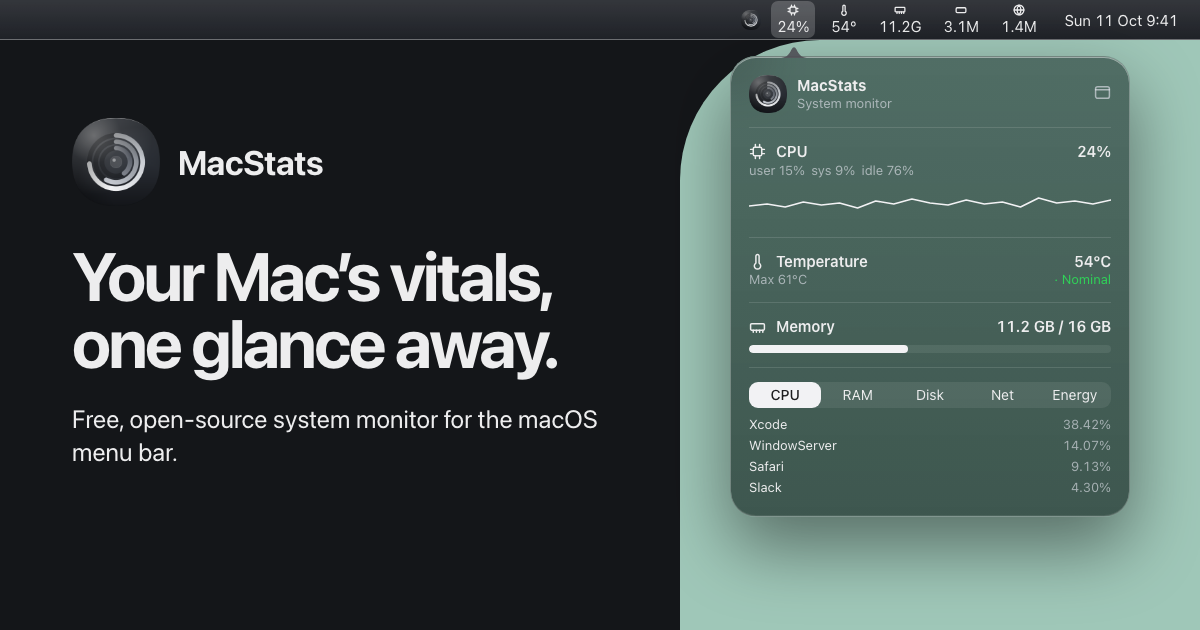
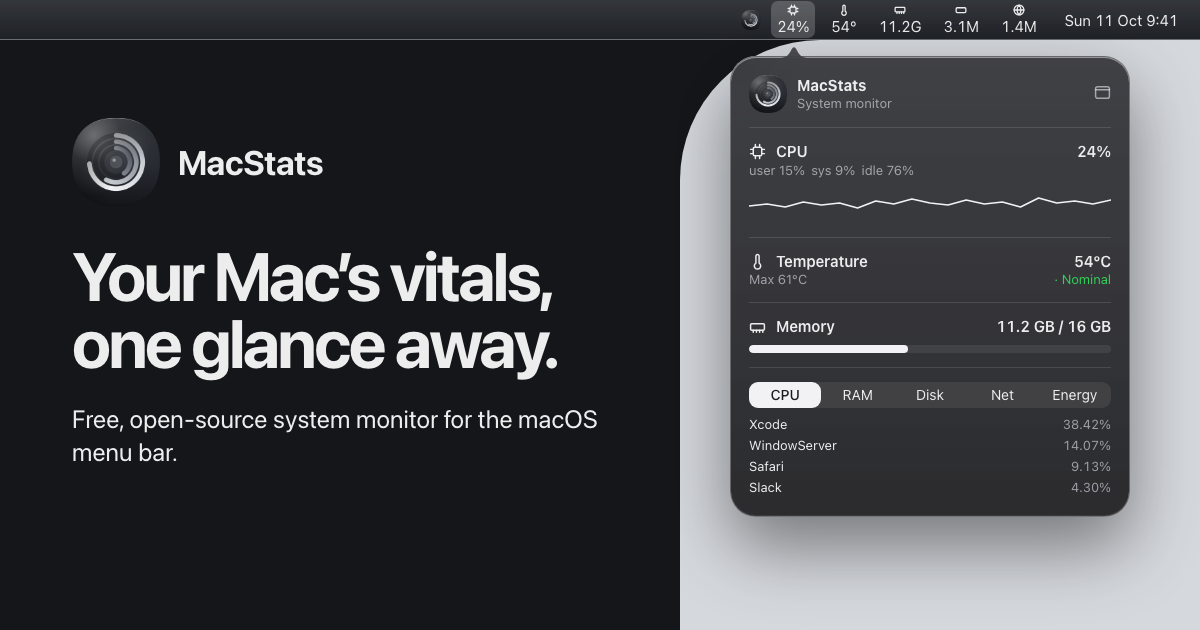
style(web): grey stage and a white button instead of jade
The jade stage becomes a light cool grey and the download button white,
the icon's own graphite and white. The dark glass of the dropdown and
windows is now mostly opaque, as it washed out to mid grey over the
light stage, and drops its backdrop blur: it showed nothing at that
opacity and made phones stutter while scrolling. The og image follows.

diff --git a/apps/web/src/index.css b/apps/web/src/index.css
@@ -4,16 +4,17 @@
   /* The SF system font stack: the page is set in the same face as the app it shows */
   --font-sans: -apple-system, BlinkMacSystemFont, "SF Pro", "Helvetica Neue", system-ui, sans-serif;
 
-  /* Page palette: graphite ground from the icon, near-white ink, one pale jade "stage" that the
-     product fragments sit on (and the download button). Nothing else on the page carries colour;
-     the app's own charts do. */
+  /* Page palette, the icon's own: graphite ground, near-white ink, a light cool grey "stage" the
+     product fragments sit on, and a white download button. Nothing else on the page carries
+     colour; the app's own charts do. */
   --color-ground: #141619;
   --color-surface: #1d2024;
   --color-ink: #ededee;
   --color-muted: #9a9fa8;
-  --color-stage: #9fc7b8;
-  --color-stage-strong: #b6d7cb;
+  --color-stage: #d5d8dd;
   --color-on-stage: #141619;
+  --color-action: #f2f2f4;
+  --color-action-strong: #ffffff;
 
   /* macOS 26 dark appearance, used inside the app replicas only */
   --color-label: #fff;
@@ -89,17 +90,21 @@
     0 18px 50px rgb(0 0 0 / 0.35);
 }
 
-/* Darker tint for dense content (the dropdown), same glass otherwise */
+/* Dark-mode material for the dropdown and windows. Mostly opaque, like the real one over a light
+   wallpaper: they sit on the light grey stage, and a thinner tint washes out to mid grey. */
 @utility glass-dark {
-  --glass-fill: linear-gradient(180deg, rgb(44 44 48 / 0.6), rgb(22 22 24 / 0.65)); /* taste-skill-ignore: macOS Liquid Glass replica */
+  --glass-fill: linear-gradient(180deg, rgb(40 40 44 / 0.86), rgb(24 24 26 / 0.9)); /* taste-skill-ignore: macOS Liquid Glass replica */
+  /* At this opacity over a flat stage a live blur shows nothing, and on big surfaces (the whole
+     main window) it's what makes phones stutter while scrolling */
+  backdrop-filter: none;
 }
 
-/* The one primary action: flat jade capsule that gives a little on press */
+/* The one primary action: flat white capsule that gives a little on press */
 @utility button {
   display: inline-flex;
   align-items: center;
   border-radius: 9999px;
-  background-color: var(--color-stage);
+  background-color: var(--color-action);
   color: var(--color-on-stage);
   padding: 0.8rem 1.5rem;
   font-weight: 600;
@@ -111,7 +116,7 @@
   }
   @media (hover: hover) and (pointer: fine) {
     &:hover {
-      background-color: var(--color-stage-strong);
+      background-color: var(--color-action-strong);
     }
   }
 }

diff --git a/apps/web/og/og-image.html b/apps/web/og/og-image.html
@@ -15,10 +15,10 @@
         font-family: -apple-system, BlinkMacSystemFont, "SF Pro", "Helvetica Neue", sans-serif;
         color: #ededee;
         -webkit-font-smoothing: antialiased;
-        /* Same palette as the site (src/index.css): graphite ground, jade stage under the dropdown */
+        /* Same palette as the site (src/index.css): graphite ground, light grey stage under the dropdown */
         background: #141619;
       }
-      .stage { position: absolute; top: 40px; right: 0; bottom: 0; width: 520px; border-top-left-radius: 140px; background: #9fc7b8; }
+      .stage { position: absolute; top: 40px; right: 0; bottom: 0; width: 520px; border-top-left-radius: 140px; background: #d5d8dd; }
       .glass {
         background: linear-gradient(180deg, rgb(255 255 255 / 0.14), rgb(255 255 255 / 0.05));
         backdrop-filter: blur(28px) saturate(180%);
@@ -46,7 +46,7 @@
       .popover {
         position: absolute; top: 56px; right: 70px; width: 400px; padding: 18px;
         border-radius: 26px; font-size: 15px; line-height: 1.3;
-        background: linear-gradient(180deg, rgb(44 44 48 / 0.6), rgb(22 22 24 / 0.65));
+        background: linear-gradient(180deg, rgb(40 40 44 / 0.86), rgb(24 24 26 / 0.9));
       }
       .row { display: flex; align-items: center; gap: 10px; }
       .grow { flex: 1; }
@@ -68,7 +68,7 @@
       .procs div { display: flex; justify-content: space-between; padding: 2px 0; }
       .procs b { font-weight: 400; color: rgb(235 235 245 / 0.6); font-variant-numeric: tabular-nums; }
       .nominal { color: #30d158; }
-      .nub { position: absolute; top: -11px; left: 48px; width: 30px; height: 12px; background: rgb(78 78 84 / 0.9); clip-path: path("M0 12 C6.5 12 9.5 10 12.5 3.5 Q15 -1 17.5 3.5 C20.5 10 23.5 12 30 12 Z"); }
+      .nub { position: absolute; top: -11px; left: 48px; width: 30px; height: 12px; background: rgb(64 64 68 / 0.95); clip-path: path("M0 12 C6.5 12 9.5 10 12.5 3.5 Q15 -1 17.5 3.5 C20.5 10 23.5 12 30 12 Z"); }
     </style>
   </head>
   <body>

diff --git a/apps/web/src/components/window/MainWindow.tsx b/apps/web/src/components/window/MainWindow.tsx
@@ -59,7 +59,7 @@ export function MainWindow({ stats, mixer, visible, onToggleMetric }: MainWindow
         </p>
       </div>
 
-      {/* The window sits on the same jade stage as the dropdown, bleeding off the right edge */}
+      {/* The window sits on the same grey stage as the dropdown, bleeding off the right edge */}
       <div className="mt-14 ml-[max(0px,calc((100vw-1280px)/2))] rounded-tl-[160px] bg-stage py-[clamp(1.25rem,5vw,5rem)] pr-[clamp(1.25rem,4vw,3rem)] pl-[clamp(1.25rem,6vw,6rem)] max-md:rounded-tl-[72px] max-md:px-3">
         <div
           data-ui
